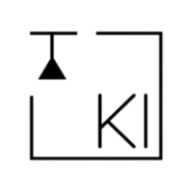
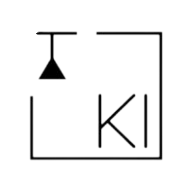
fix: add style width auto to Image components to prevent aspect ratio warnings

Changed region(s): [[0.125, 0.1562, 0.875, 0.8438], [0.5, 0.4688, 0.7812, 0.7812], [0.1562, 0.1562, 0.4062, 0.4375]]

diff --git a/components/layout/public-footer.tsx b/components/layout/public-footer.tsx
@@ -18,6 +18,7 @@ export function PublicFooter() {
                 width={160}
                 height={40}
                 className="h-8 w-auto md:h-10 opacity-80 transition-opacity hover:opacity-100"
+                style={{ width: "auto" }}
               />
             </Link>
             <p className="text-foreground-soft max-w-sm font-light">

diff --git a/components/layout/mobile-menu.tsx b/components/layout/mobile-menu.tsx
@@ -58,6 +58,7 @@ export function MobileMenu({ isOpen, setIsOpen }: MobileMenuProps) {
                 width={160}
                 height={40}
                 className="h-8 w-auto"
+                style={{ width: "auto" }}
                 priority
               />
             </Link>

diff --git a/components/layout/admin-sidebar.tsx b/components/layout/admin-sidebar.tsx
@@ -48,6 +48,7 @@ export function AdminSidebar({ isOpen, setIsOpen }: AdminSidebarProps) {
             width={120}
             height={30}
             className="h-6 w-auto"
+            style={{ width: "auto" }}
             priority
           />
         </Link>

diff --git a/components/layout/public-navbar.tsx b/components/layout/public-navbar.tsx
@@ -51,6 +51,7 @@ export function PublicNavbar() {
               width={160}
               height={40}
               className="h-8 w-auto md:h-10"
+              style={{ width: "auto" }}
               priority
             />
           </Link>
